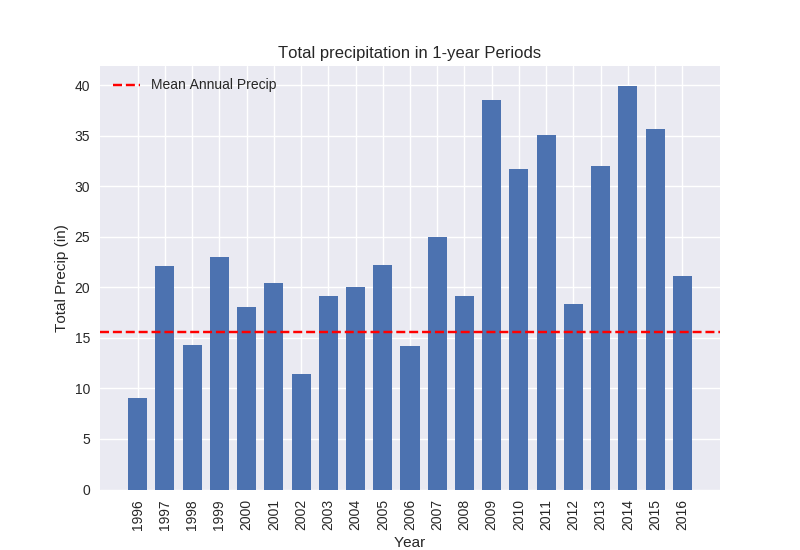
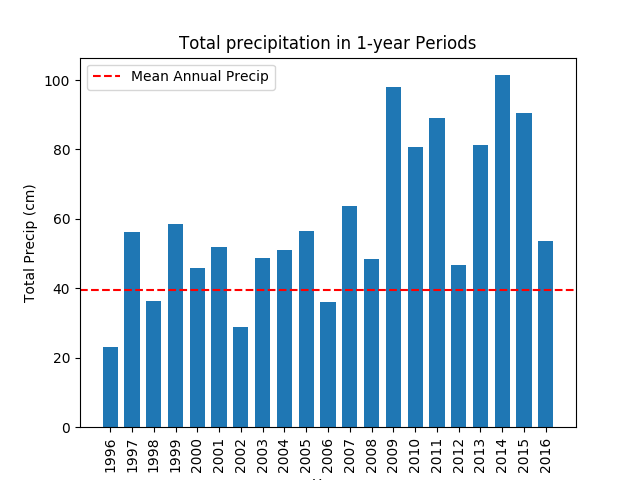
finalizing readme

diff --git a/eda.py b/eda.py
@@ -74,7 +74,7 @@ if __name__ == '__main__':
     # get data from s3 bucket
     obj = s3.get_object(Bucket='climate_data', Key='40yr.csv')
     df = pd.read_csv(obj['Body'])
-    
+
     df, climate_df = clean_data(df)
     climate_df = climate_df[climate_df['date'] > '1997']
     df = clean_type(df)
@@ -93,12 +93,13 @@ if __name__ == '__main__':
     for col in depart_df.columns:
         depart_df[col] = pd.to_numeric(depart_df[col], errors='coerce')
 
-    plot_departure(depart_df, 'date', 'daily_dept_from_normal_average_temp',\
-                   'Daily Departure from Avg Temp over Time', 'temp_departure_lr')
+    # plot_departure(depart_df, 'date', 'daily_dept_from_normal_average_temp',\
+    #                'Daily Departure from Avg Temp over Time', 'temp_departure_lr')
     # plot_departure(climate_df, 'date', 'monthly_dept_from_normal_average_temp',\
     #                'Monthly Departure from Avg Temp over Time', 'mo_temp_dep_lr')
 
     # plot_means(df, 'hourly_dry_bulb_temp_f', 10.08, 'Mean Annual Temp (C)',\
     #            'Dry Bulb Temp', 'dbt')
-    # plot_sums(df, 'hourly_precip', 15.54, 'Total Precip (in)', \
-    #           'precipitation', 'precip')
+    df['hourly_precip'] = df['hourly_precip'] * 2.54
+    plot_sums(df, 'hourly_precip', 39.4716, 'Total Precip (cm)', \
+              'precipitation', 'precip')

diff --git a/README.md b/README.md
@@ -28,7 +28,7 @@ For ease of computation I decided to focus on the DIA data since 1997 for the re
 
 #### Gaussian Process Regression
 
-To model this climate data, I chose to implement a [Gaussian Process Regressor](http://scikit-learn.org/stable/modules/generated/sklearn.gaussian_process.GaussianProcessRegressor.html#sklearn.gaussian_process.GaussianProcessRegressor).These models are distributions over mean and covariance functions and are ideal for observations occurring in a continuous space (such as time). This allows me to return conditional distributions along with my predictions. For each predicted point, I have a confidence interval to illustrate the error in the prediction which is especially useful for time series predictions. Much of the variation in my model is based on modeling [CO2 Concentrations at Mauna Loa](http://scikit-learn.org/stable/auto_examples/gaussian_process/plot_gpr_co2.html).
+To model this climate data, I chose to implement a [Gaussian Process Regressor](http://scikit-learn.org/stable/modules/generated/sklearn.gaussian_process.GaussianProcessRegressor.html#sklearn.gaussian_process.GaussianProcessRegressor). These models are distributions over mean and covariance functions and are ideal for observations occurring in a continuous space (such as time). This allows me to return conditional distributions along with my predictions. For each predicted point, I have a confidence interval to illustrate the error in the prediction which is especially useful for time series predictions. The hyperparameters and kernels used in my model are greatly based on modeling [CO2 Concentrations at Mauna Loa](http://scikit-learn.org/stable/auto_examples/gaussian_process/plot_gpr_co2.html).
 
 ##### Kernels
 The covariance function in a Gaussian Process is expressed by kernel functions. I chose to combine a few kernels to fully account for the signal in the data. A squared exponential kernel was chosen to model the long-term upward trend of climate data while a sinusoidal kernel was used to account for the seasonality of the data.
@@ -51,7 +51,7 @@ The climate data is extremely noisy and the visualization of my model reflected 
 | ------------- | ------------- |
 | ![prediction](images/prediction_2007.png)  | ![noise_prediction](images/prediction_noise.png)  |
 
-One major reason for choosing a Gaussian Process Recressor is that each prediction is accompanied by a distribution and standard deviation for that point. This allows one to plot a confidence interval around the predictions. Seeing as I have a very populated training set, this interval is smaller than I had expected and I would like to further investigate the accuracy of this. Below I limited the scale to only include predictions for 2017 and 2018 to better illustrate the error.
+One major reason for choosing a Gaussian Process Recressor is that each prediction is accompanied by a distribution and standard deviation for that point. This allows one to plot a confidence interval around the predictions. Seeing as I have a very populated training set, this interval is smaller than I had expected and I would like to further investigate the accuracy of this. Below I limited the scale to only include predictions for 2017 and 2018 to better visualize the error.
 
 | Noisy Prediction with a 95% Confidence Interval | Prediction When Accounting for Noise |
 | ------------- | ------------- |
@@ -59,10 +59,14 @@ One major reason for choosing a Gaussian Process Recressor is that each predicti
 
 One can see that smoothing out the noise actually increases the error of the estimate, another reason to keep the noise in the model. One would mainly want to use the smoothed model to predict much further into the future as it displays more long-term trends.
 
-The biggest issue with time series data is your feature limitation. Using 1995-2015 as my training set and testing again on the years 2015 and 2016, I achieved an R^2 score of 0.9985, but predicting into the future, the only feature I can use is the date. It would be interesting to use my model to predict on each of my features individually and then utilize this predicted matrix to estimate future temperatures.
+The biggest issue with time series data is your feature limitation. Using 1995-2015 as my training set utilizing my entire feature matrix (28 features) and testing again on the years 2015 and 2016, I achieved an R^2 score of 0.9985, but predicting into the future, the only feature I can use is the date. It would be interesting to use my model to predict on each of my features individually and then utilize this predicted matrix to estimate future temperatures.
 
 #### Further Exploration
 
 The first change will be using only data from Buckley AFB to avoid constraining my training set to the 1995 opening date of DIA. This will allow me to look much further back into the local climate to detect larger trends and hopefully make more accurate predictions. Similar to the DIA data, this new data will have to be cleaned before analysis can take place.
 
-One frustration I encountered during this project was the model's inability to predict extremes in the seasonality. A large concern with climate change i the increase in frequency of extreme weather events. I would be interested in conducting some feature engineering to classify each observation (or per day) as an extreme event or not, and quantify exactly how far from the expectation it is. This analysis could be done on more than just temperature. I could include wind speeds and precipitation and attempt to overlay the data with known storm systems moving through the region.
+One frustration I encountered during this project was the model's inability to predict extremes in the seasonality. A large concern with climate change is the increase in frequency of extreme weather events. I would be interested in conducting some feature engineering to classify each observation (or per day) as an extreme event or not, and quantify exactly how far from the expectation it is. This analysis could be done on more than just temperature. I could include wind speeds and precipitation and attempt to overlay the data with known storm systems moving through the region.
+
+A hope for this model would be to predict more difficult features such as precipitation. Looking at yearly precipitation totals since 1996 (illustrated below) does demonstrate a significant change. The "Mean Annual Precip" is the average over the past 50 years. This increasing trend could be a result of the increasing number of extreme weather events. I plan on looking into this further, although there are dome new difficulties predicting on such an inconsistent feature such as precipitation when the majority of observations are 0.
+
+![annual_precip](images/total_precip.png) 
